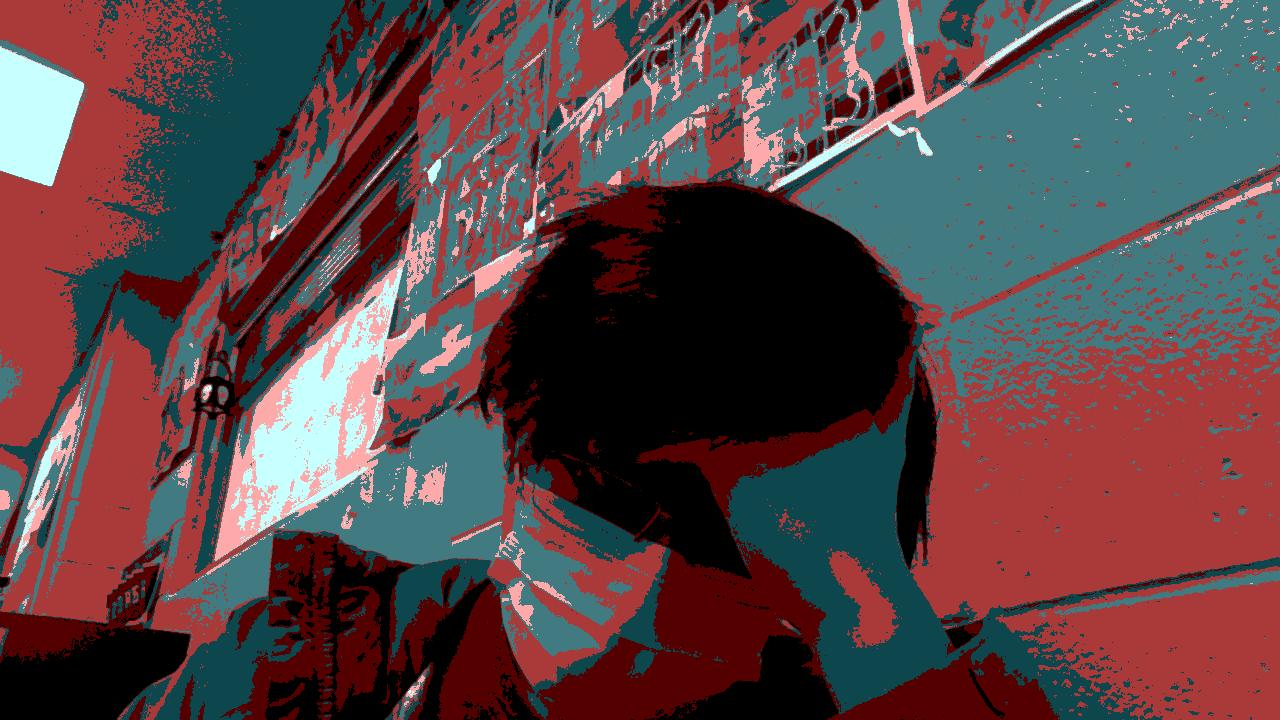
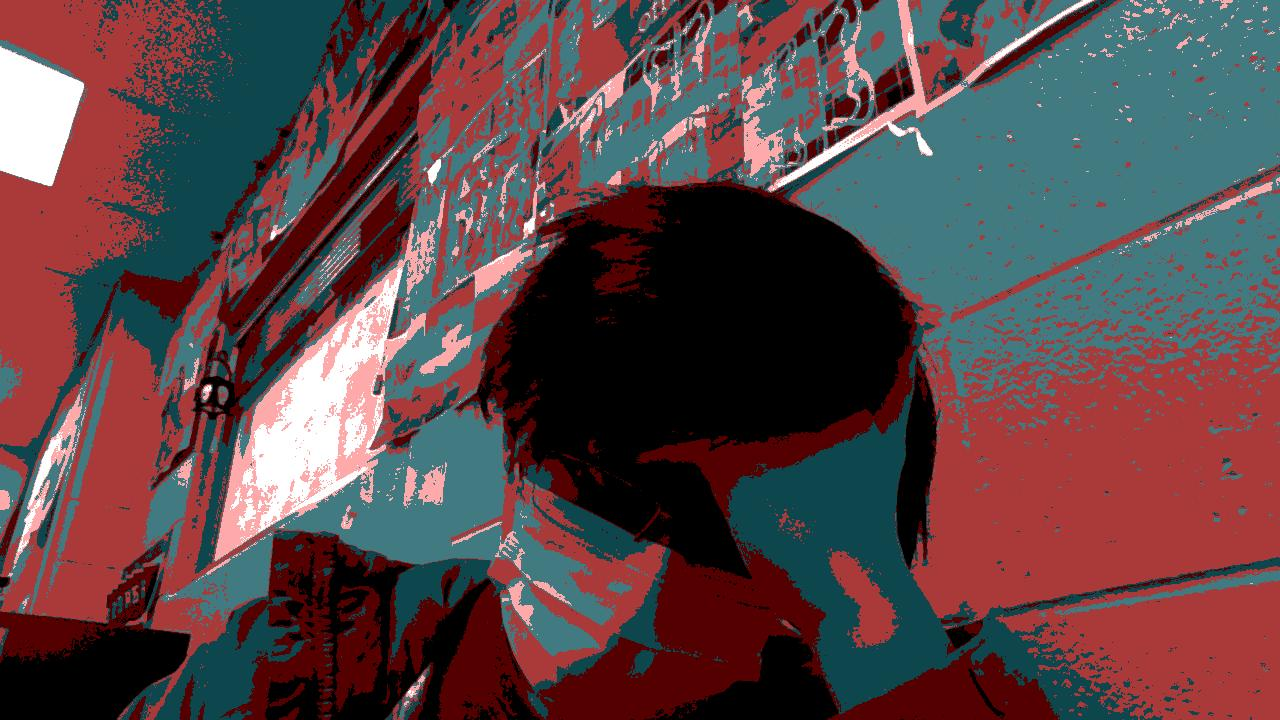
25.11.2025 update 2

diff --git a/ColorLabs17/SheparFaireyLab.java b/ColorLabs17/SheparFaireyLab.java
@@ -250,7 +250,7 @@ public class SheparFaireyLab
                 mepix5[i].setColor(new Color(255, 170, 170));
             }
             else{
-                mepix5[i].setColor(new Color(200, 255, 255));
+                mepix5[i].setColor(new Color(255, 255, 255));
             }
             i++;
         }
